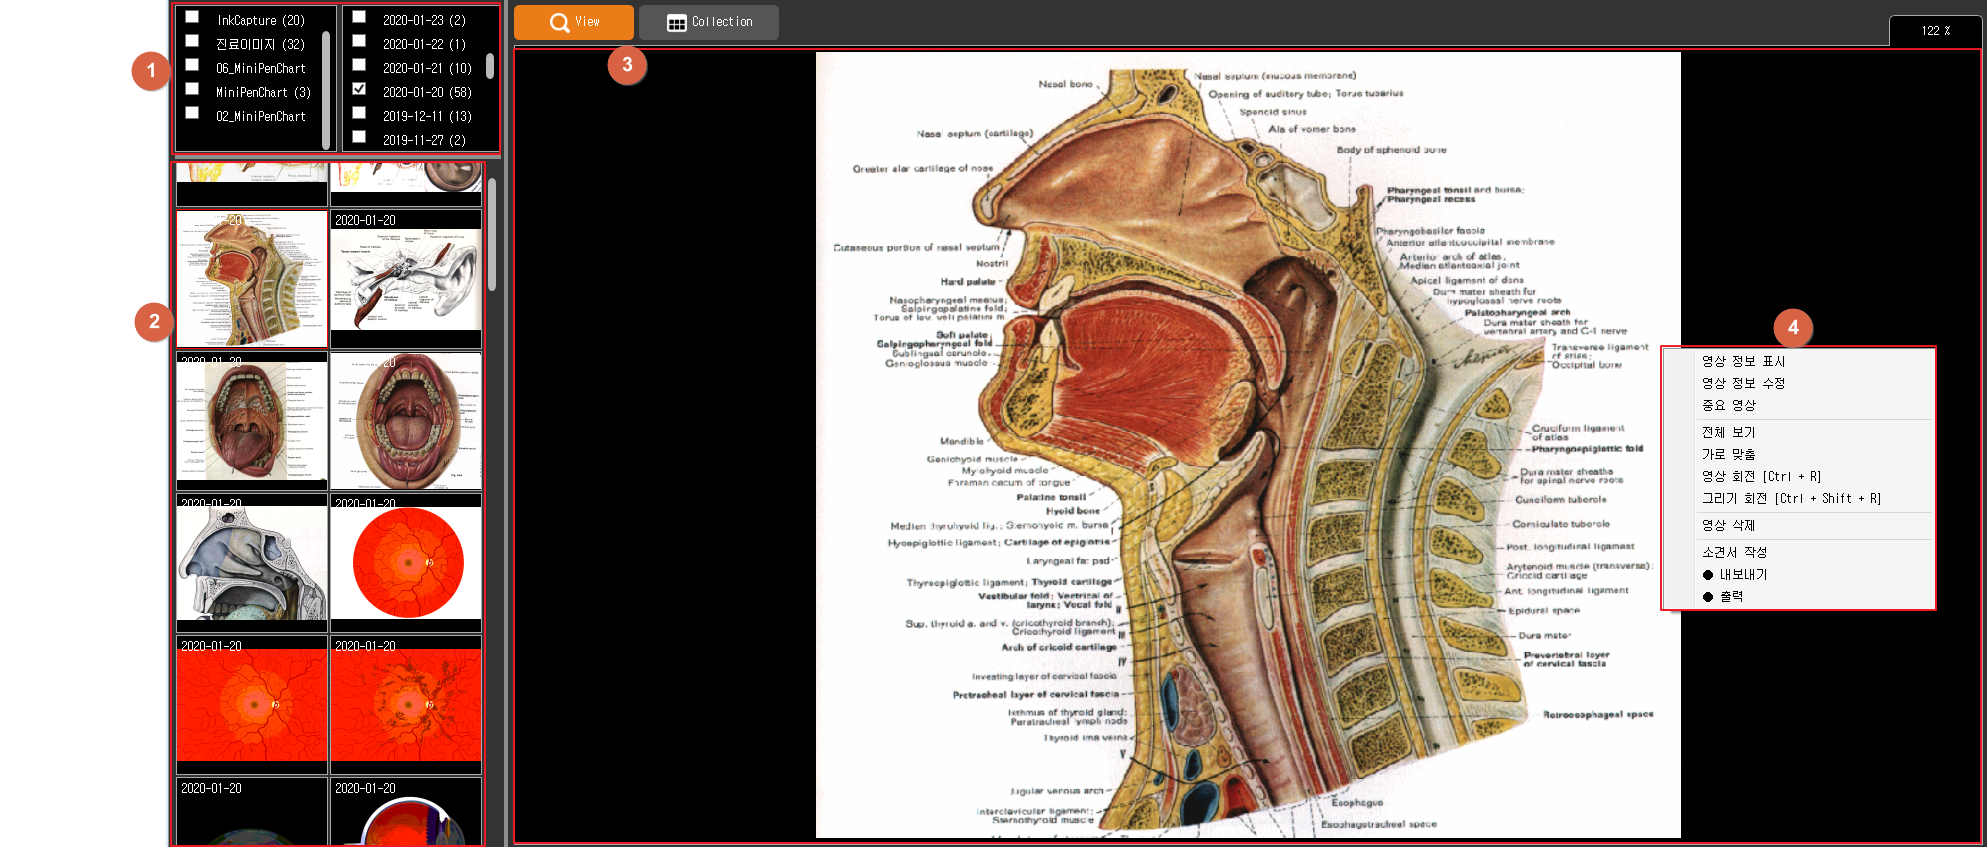
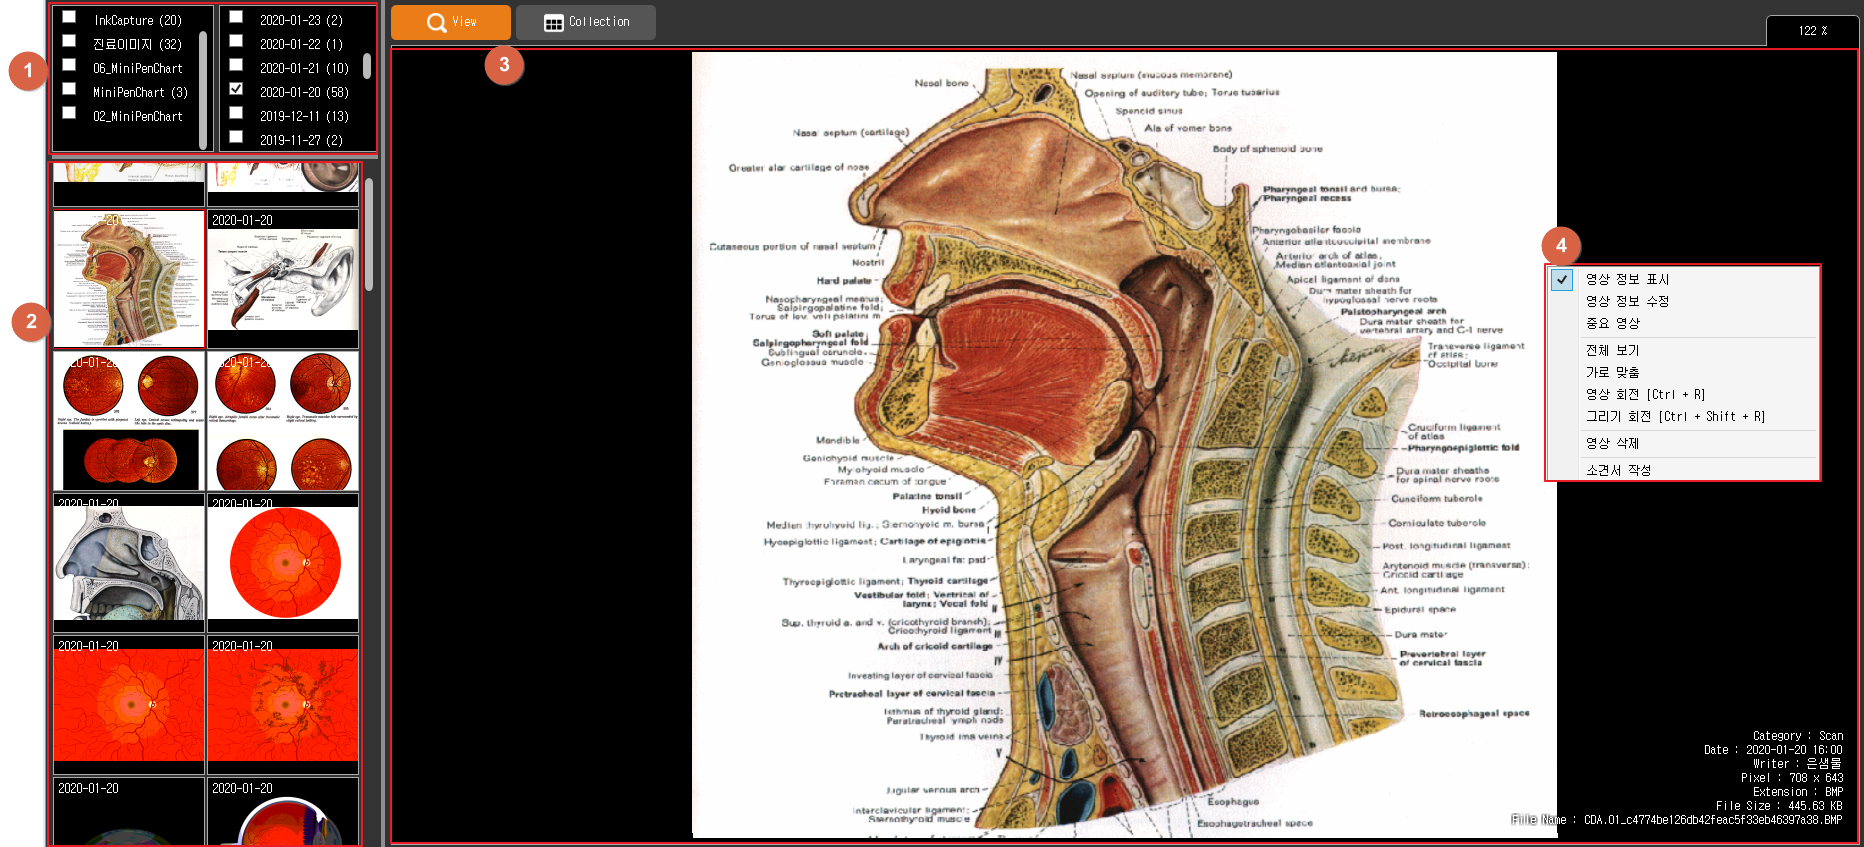
영상보기

diff --git a/_docs/main6/sub4/page2.md b/_docs/main6/sub4/page2.md
@@ -17,12 +17,93 @@ pageOrder: 2
          썸네일을 다수 개 선택 후 우클릭 시 영상 비교 창이 팝업됩니다.
          썸네일을 선택하지 않고 우클릭 시 전체 영상이 표시된 영상 비교 창이 팝업됩니다.
      ③ 선택된 영상이 표시됩니다.
- 
-
-
-
-
- 
+     ④ 표시된 영상을 우클릭 시 컨텍스트 메뉴가 표시됩니다.
+         [영상 정보 표시] 메뉴 클릭 시 우측 하단에 영상정보를 표시하거나 표시해제할 수 있습니다.
+         [영상 정보 수정] 메뉴 클릭 시 파일정보 창이 팝업됩니다.
+         [중요 영상] 메뉴 클릭 시 해당 영상이 중요영상으로 체크됩니다.
+         중요영상은 썸네일 날짜가 노랗게 표시되고 영상이 포함된 카테고리/날짜 앞에 별이 표시됩니다.
+         [전체 보기] 메뉴 클릭 시 영상이 화면 안에 모두 표시되도록 배율을 변경합니다.
+         [가로 맞춤] 메뉴 클릭 시 화면의 가로너비에 맞춰 영상의 배율을 변경합니다.
+         [영상 회전] 메뉴 클릭 시 해당 영상이 시계방향으로 90도 회전하여 저장됩니다.
+         [그리기 회전] 메뉴 클릭 시 그리기 도구를 하용하여 그려진 레이어가 회전하여 저장됩니다.
+         [영상 삭제] 메뉴 클릭 시 해당 영상이 삭제됩니다.
+         [소견서 작성] 메뉴 클릭 시 영상소견서가 선택된 서류발급 창이 팝업됩니다.
+         영상목록에 선택한 영상이 표시됩니다.
 </pre>
 
 [![](/images/{{page.url}}_1.png)](/images/{{page.url}}_1.png){: target="_blank"}
+<br/><br/>
+
+[![](/images/{{page.url}}_5.png)](/images/{{page.url}}_5.png){: target="_blank"}
+<br/>[파일정보 화면]
+
+
+<pre>
+ <t2><bold>2. Collection </bold></t2>
+     ① 썸네일을 드래그하여 분할된 우측 영역에 추가할 수 있습니다.
+     ② 현재 페이지 / 총 페이지가 표시됩니다. 
+         [<img src="/images/{{page.url}}_btn_1.png"  width="20" height="20">] 버튼 클릭 시 이전페이지로 이동합니다.
+         [<img src="/images/{{page.url}}_btn_2.png"  width="20" height="20">] 버튼 클릭 시 다음페이지로 이동합니다. 
+         마지막 페이지이고 영상이 추가되어있는 경우 [<img src="/images/{{page.url}}_btn_2.png"  width="20" height="20">] 버튼 클릭 시 페이지가 추가됩니다.
+     ③ 선택된 영상이 표시됩니다. 
+         영상을 드래그하여 이미 영상이 존재하는 곳에 놓을 경우 해당 위치로 선택한 영상이 끼어듭니다.
+         표시되고 있는 영상들을 드래그하여 위치를 변경할 수 있습니다.
+     ④ 표시된 영상을 우클릭 시 컨텍스트 메뉴가 표시됩니다.
+         [영상 정보 표시] 메뉴 클릭 시 우측 하단에 영상정보를 표시하거나 표시해제할 수 있습니다.
+         [영상 정보 수정] 메뉴 클릭 시 파일정보 창이 팝업됩니다.
+         [중요 영상] 메뉴 클릭 시 해당 영상이 중요영상으로 체크됩니다.
+         중요영상은 썸네일 날짜가 노랗게 표시되고 영상이 포함된 카테고리/날짜 앞에 별이 표시됩니다.
+         [전체 보기] 메뉴 클릭 시 영상이 화면 안에 모두 표시되도록 배율을 변경합니다.
+         [가로 맞춤] 메뉴 클릭 시 화면의 가로너비에 맞춰 영상의 배율을 변경합니다.
+         [영상 회전] 메뉴 클릭 시 해당 영상이 시계방향으로 90도 회전하여 저장됩니다.
+         [그리기 회전] 메뉴 클릭 시 그리기 도구를 하용하여 그려진 레이어가 회전하여 저장됩니다.
+         [영상 삭제] 메뉴 클릭 시 해당 영상이 삭제됩니다.
+         [현재 페이지 비우기] 메뉴 클릭 시 현재 표시되고 있는 페이지가 초기화됩니다. 
+         [모든 페이지 비우기] 전체 페이지가 표기화됩니다.
+         [소견서 작성] 메뉴 클릭 시 영상소견서가 선택된 서류발급 창이 팝업됩니다.
+         영상목록에 선택한 영상이 표시됩니다.
+</pre>
+
+[![](/images/{{page.url}}_2.png)](/images/{{page.url}}_2.png){: target="_blank"}
+<br/><br/>
+
+<pre>
+ <t2><bold>3. 영상 비교 </bold></t2>
+     ① [<img src="/images/{{page.url}}_btn_3.png"  width="20" height="20">] 버튼 클릭 시 영상정보를 표시하거나 표시해제할 수 있습니다.
+         영상 클릭 시 해당 영상이 크게 표시되고 [<img src="/images/{{page.url}}_btn_4.png"  width="20" height="20">] 버튼이 활성화됩니다.
+         [<img src="/images/{{page.url}}_btn_4.png"  width="20" height="20">] 버튼 클릭 시 분할 화면으로 이동합니다.
+         [<img src="/images/{{page.url}}_btn_5.png"  width="55" height="20">] 버튼 클릭 시 화면 분할을 변경할 수 있습니다.
+          영상 클릭 시 해당 영상이 크게 표시되고 [<img src="/images/{{page.url}}_btn_6.png"  width="20" height="20">] 버튼이 활성화됩니다.
+          [<img src="/images/{{page.url}}_btn_6.png"  width="20" height="20">] 버튼 클릭 시 영상에 그리기가 활성화됩니다.
+     ② 썸네일 클릭 시 선택된 영상부터 분할하면에 표시됩니다. 
+         썸네일을 드래그하면 영상표시 순서를 변경할 수 있습니다.
+     ③ 분할화면에서 마우스 휠 사용 시 페이지가 변경됩니다.
+          Ctrl + 마우스 휠을 사용할 경우 해당 영상의 배율을 변경할 수 있습니다.
+</pre>
+
+[![](/images/{{page.url}}_3.png)](/images/{{page.url}}_3.png){: target="_blank"}
+<br/><br/>
+[![](/images/{{page.url}}_4.png)](/images/{{page.url}}_4.png){: target="_blank"}
+
+
+
+
+
+
+
+
+
+
+
+
+
+
+
+
+
+
+
+
+
+
+
